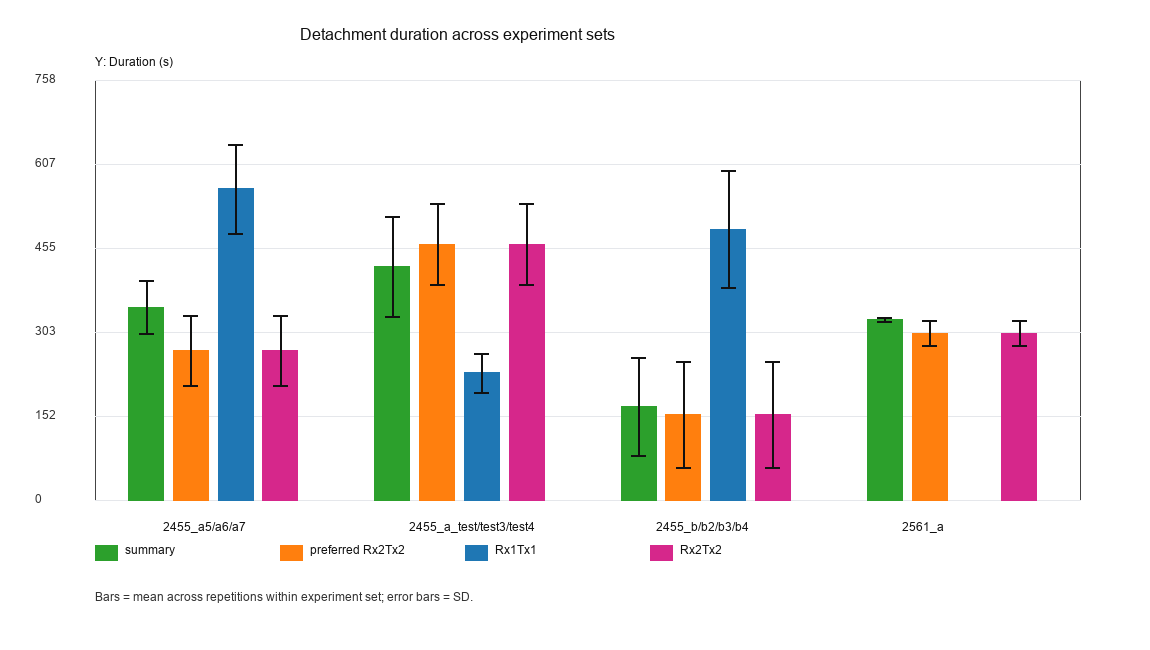
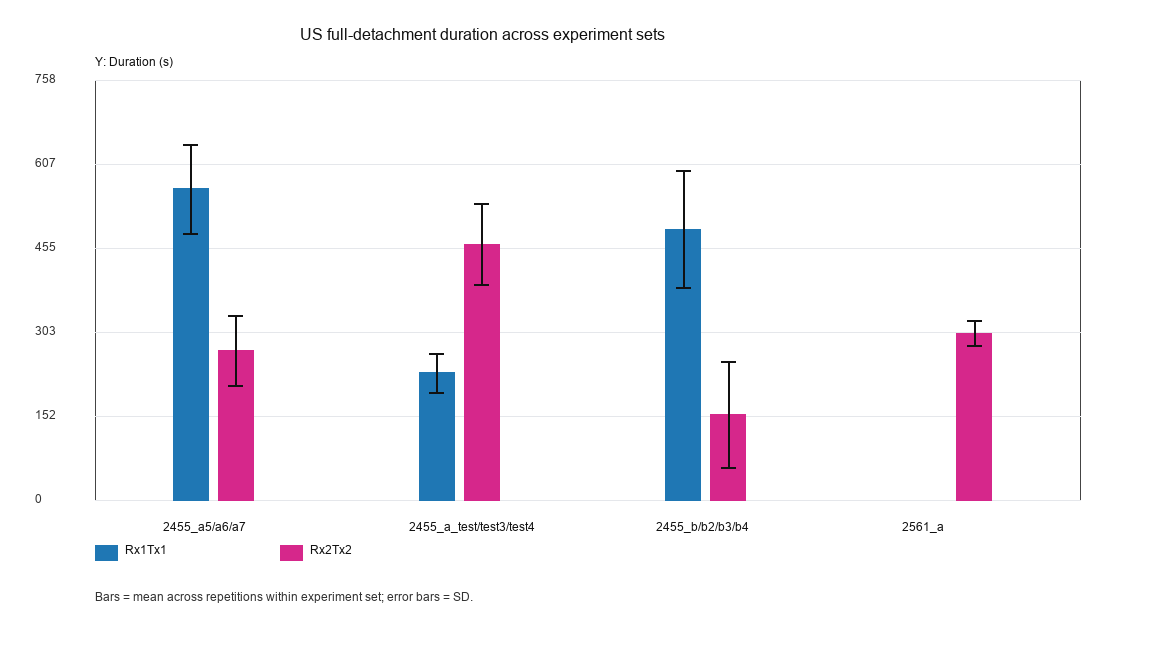
Clarify lab detachment repeatability outputs

diff --git a/analyze_lab_trials.py b/analyze_lab_trials.py
@@ -1019,8 +1019,6 @@ def make_zone_summary_link_sheet(tables: dict[str, pd.DataFrame]) -> pd.DataFram
         "Cryst. Onset (rel.)",
         "Cryst. Efficiency",
         "Detachment Onset (rel.)",
-        "Detachment Completion (rel.)",
-        "Detachment Duration",
         "Cryst. Length",
     ]
     outcomes = [c for c in outcomes if c in landmarks.columns]
@@ -1149,8 +1147,6 @@ def make_zone_link_highlights(zone_links: pd.DataFrame) -> pd.DataFrame:
         "Cryst. Onset (rel.)",
         "Cryst. Efficiency",
         "Detachment Onset (rel.)",
-        "Detachment Completion (rel.)",
-        "Detachment Duration",
         "Cryst. Length",
     ]
     work = zone_links[zone_links["summary_outcome"].isin(preferred_outcomes)].copy()
@@ -1286,8 +1282,6 @@ SUMMARY_PARAMETERS = [
     "Cryst. Onset (rel.)",
     "Cryst. Efficiency",
     "Detachment Onset (rel.)",
-    "Detachment Completion (rel.)",
-    "Detachment Duration",
     "Cryst. Length",
 ]
 
@@ -1431,8 +1425,6 @@ def targeted_temp_outcome_links(tables: dict[str, pd.DataFrame], repeatability: 
         "Cryst. Efficiency": ["zone_2_cooling_to_crystallization_start"],
         "Cryst. Length": ["zone_2_cooling_to_crystallization_start", "zone_3_crystallization_to_detachment_onset"],
         "Detachment Onset (rel.)": ["zone_3_crystallization_to_detachment_onset", "zone_4_detachment_onset_to_detachment_completion"],
-        "Detachment Completion (rel.)": ["zone_4_detachment_onset_to_detachment_completion"],
-        "Detachment Duration": ["zone_4_detachment_onset_to_detachment_completion"],
     }
     metrics = ["mean_temp_C", "range_temp_C", "abs_slope_temp_C_per_s", "product_spread_C"]
     rows = []
@@ -1956,22 +1948,19 @@ def detachment_summary_comparison(tables: dict[str, pd.DataFrame], detachment_of
         lm_pref = lm22.iloc[0] if not lm22.empty else lm11.iloc[0]
         meta = PROCESS_START_TIMES.get(rep_id, {})
         cooling_start = float(meta.get("cooling_start_s", np.nan))
-        summary_completion_rel = pd.to_numeric(pd.Series([lm_pref.get("Detachment Completion (rel.)")]), errors="coerce").iloc[0]
         summary_onset_rel = pd.to_numeric(pd.Series([lm_pref.get("Detachment Onset (rel.)")]), errors="coerce").iloc[0]
-        summary_duration = pd.to_numeric(pd.Series([lm_pref.get("Detachment Duration")]), errors="coerce").iloc[0]
-        summary_completion_abs = cooling_start + summary_completion_rel if pd.notna(cooling_start) and pd.notna(summary_completion_rel) else np.nan
         summary_onset_abs = cooling_start + summary_onset_rel if pd.notna(cooling_start) and pd.notna(summary_onset_rel) else np.nan
 
         rx2 = group[group["channel"].eq("Rx2Tx2")]
         rx1 = group[group["channel"].eq("Rx1Tx1")]
-        pref = rx2.iloc[0] if not rx2.empty else (rx1.iloc[0] if not rx1.empty else None)
-        if pref is None:
+        primary = rx2.iloc[0] if not rx2.empty else (rx1.iloc[0] if not rx1.empty else None)
+        if primary is None:
             continue
         rx1_row = rx1.iloc[0] if not rx1.empty else pd.Series(dtype=object)
         rx2_row = rx2.iloc[0] if not rx2.empty else pd.Series(dtype=object)
-        us_offset = pd.to_numeric(pd.Series([pref.get("detachment_offset_s")]), errors="coerce").iloc[0]
-        us_onset = pd.to_numeric(pd.Series([pref.get("detachment_onset_absolute_s")]), errors="coerce").iloc[0]
-        us_duration = us_offset - us_onset if pd.notna(us_offset) and pd.notna(us_onset) else np.nan
+        primary_offset = pd.to_numeric(pd.Series([primary.get("detachment_offset_s")]), errors="coerce").iloc[0]
+        primary_onset = pd.to_numeric(pd.Series([primary.get("detachment_onset_absolute_s")]), errors="coerce").iloc[0]
+        primary_duration = primary_offset - primary_onset if pd.notna(primary_offset) and pd.notna(primary_onset) else np.nan
         rx1_offset = pd.to_numeric(pd.Series([rx1_row.get("detachment_offset_s", np.nan)]), errors="coerce").iloc[0]
         rx2_offset = pd.to_numeric(pd.Series([rx2_row.get("detachment_offset_s", np.nan)]), errors="coerce").iloc[0]
         rx1_onset = pd.to_numeric(pd.Series([rx1_row.get("detachment_onset_absolute_s", np.nan)]), errors="coerce").iloc[0]
@@ -1982,24 +1971,26 @@ def detachment_summary_comparison(tables: dict[str, pd.DataFrame], detachment_of
             rx1_row.get("detachment_offset_status") == "full_detachment_for_channel"
             and rx2_row.get("detachment_offset_status") == "full_detachment_for_channel"
         )
+        full_sensors = [
+            ch
+            for ch, row in [("Rx1Tx1", rx1_row), ("Rx2Tx2", rx2_row)]
+            if row.get("detachment_offset_status") == "full_detachment_for_channel"
+        ]
         rows.append(
             {
                 "dataset": lm_pref.get("dataset", ""),
                 "rep_id": rep_id,
-                "preferred_channel": pref["channel"],
-                "preferred_rule": "Rx2Tx2 preferred when present; Rx1Tx1 retained as comparison/fallback.",
+                "raw_sheet": "at" + rep_id,
+                "primary_channel": primary["channel"],
+                "primary_rule": "Rx2Tx2 is the primary comparison channel when present; Rx1Tx1 is retained as parallel-sensor validation.",
                 "summary_sensor_code_used": lm_pref.get("sensor_code", ""),
                 "summary_detachment_onset_abs_s": summary_onset_abs,
-                "summary_detachment_completion_abs_s": summary_completion_abs,
-                "summary_detachment_duration_s": summary_duration,
-                "us_detachment_onset_abs_s": us_onset,
-                "us_detachment_offset_s": us_offset,
-                "us_detachment_duration_s": us_duration,
-                "us_offset_status": pref.get("detachment_offset_status", ""),
-                "us_change_points_until_offset_or_last": pref.get("change_points_until_detachment_or_last", np.nan),
-                "us_level_at_decision": pref.get("us_level_at_decision", np.nan),
-                "summary_minus_us_offset_s": summary_completion_abs - us_offset if pd.notna(summary_completion_abs) and pd.notna(us_offset) else np.nan,
-                "summary_minus_us_duration_s": summary_duration - us_duration if pd.notna(summary_duration) and pd.notna(us_duration) else np.nan,
+                "primary_detachment_onset_abs_s": primary_onset,
+                "primary_us_offset_s": primary_offset,
+                "primary_us_detachment_duration_s": primary_duration,
+                "primary_us_offset_status": primary.get("detachment_offset_status", ""),
+                "primary_us_change_points_until_offset_or_last": primary.get("change_points_until_detachment_or_last", np.nan),
+                "primary_us_level_at_decision": primary.get("us_level_at_decision", np.nan),
                 "rx1_status": rx1_row.get("detachment_offset_status", ""),
                 "rx1_offset_s": rx1_offset,
                 "rx1_detachment_duration_s": rx1_duration,
@@ -2010,10 +2001,11 @@ def detachment_summary_comparison(tables: dict[str, pd.DataFrame], detachment_of
                 "rx2_change_points_until_offset_or_last": rx2_row.get("change_points_until_detachment_or_last", np.nan),
                 "rx2_minus_rx1_offset_s": rx2_offset - rx1_offset if pd.notna(rx1_offset) and pd.notna(rx2_offset) else np.nan,
                 "rx2_minus_rx1_duration_s": rx2_duration - rx1_duration if pd.notna(rx1_duration) and pd.notna(rx2_duration) else np.nan,
+                "complete_detachment_sensor_count": len(full_sensors),
+                "complete_detachment_sensors": ", ".join(full_sensors),
                 "both_channels_full_offset": full_both,
                 "interpretation": (
-                    f"{rep_id}: preferred {pref['channel']} is {pref.get('detachment_offset_status', '')}. "
-                    f"Summary completion minus US offset = {fmt_num(summary_completion_abs - us_offset if pd.notna(summary_completion_abs) and pd.notna(us_offset) else np.nan, 1)} s; "
+                    f"{rep_id}: {len(full_sensors)} sensor(s) reached full US detachment ({', '.join(full_sensors) if full_sensors else 'none'}). "
                     f"Rx2 minus Rx1 offset = {fmt_num(rx2_offset - rx1_offset if pd.notna(rx1_offset) and pd.notna(rx2_offset) else np.nan, 1)} s."
                 ),
             }
@@ -2030,20 +2022,18 @@ def detachment_behavior_statistics(tables: dict[str, pd.DataFrame], comparison: 
     setup_cols = [c for c in MAIN_FACTORS if c in tables["Parsed Landmarks"].columns]
     setup = tables["Parsed Landmarks"][["rep_id", *setup_cols]].drop_duplicates("rep_id")
     work = comparison.merge(setup, on="rep_id", how="left")
-    work["preferred_full_offset_binary"] = work["us_offset_status"].eq("full_detachment_for_channel").astype(float)
+    work["primary_rx2_full_offset_binary"] = work["primary_us_offset_status"].eq("full_detachment_for_channel").astype(float)
     work["both_channels_full_offset_binary"] = work["both_channels_full_offset"].astype(float)
     metric_specs = [
-        ("summary_detachment_duration_s", "summary detachment duration"),
-        ("us_detachment_duration_s", "US preferred-channel detachment duration"),
-        ("us_change_points_until_offset_or_last", "US preferred-channel change-point count"),
+        ("primary_us_detachment_duration_s", "primary Rx2Tx2 detachment duration"),
+        ("primary_us_change_points_until_offset_or_last", "primary Rx2Tx2 change-point count"),
         ("rx1_detachment_duration_s", "Rx1Tx1 detachment duration"),
         ("rx1_change_points_until_offset_or_last", "Rx1Tx1 change-point count"),
         ("rx2_detachment_duration_s", "Rx2Tx2 detachment duration"),
         ("rx2_change_points_until_offset_or_last", "Rx2Tx2 change-point count"),
-        ("summary_minus_us_offset_s", "summary minus US offset time"),
-        ("summary_minus_us_duration_s", "summary minus US duration"),
         ("rx2_minus_rx1_offset_s", "Rx2Tx2 minus Rx1Tx1 offset time"),
-        ("preferred_full_offset_binary", "preferred channel full-offset probability"),
+        ("complete_detachment_sensor_count", "number of sensors with full detachment"),
+        ("primary_rx2_full_offset_binary", "primary Rx2Tx2 full-offset probability"),
         ("both_channels_full_offset_binary", "both channels full-offset probability"),
     ]
     rows = []
@@ -2074,10 +2064,6 @@ def detachment_behavior_statistics(tables: dict[str, pd.DataFrame], comparison: 
                 }
             )
     for x_col, y_col, label in [
-        ("summary_detachment_duration_s", "us_detachment_duration_s", "summary duration vs US preferred duration"),
-        ("summary_detachment_completion_abs_s", "us_detachment_offset_s", "summary completion vs US preferred offset"),
-        ("summary_detachment_duration_s", "rx2_detachment_duration_s", "summary duration vs Rx2Tx2 duration"),
-        ("summary_detachment_duration_s", "rx1_detachment_duration_s", "summary duration vs Rx1Tx1 duration"),
         ("rx1_detachment_duration_s", "rx2_detachment_duration_s", "Rx1Tx1 duration vs Rx2Tx2 duration"),
         ("rx1_change_points_until_offset_or_last", "rx2_change_points_until_offset_or_last", "Rx1Tx1 CP count vs Rx2Tx2 CP count"),
     ]:
@@ -2086,7 +2072,7 @@ def detachment_behavior_statistics(tables: dict[str, pd.DataFrame], comparison: 
         r, n = pearson_r(work[x_col], work[y_col])
         rows.append(
             {
-                "assessment": "summary/US agreement or channel agreement",
+                "assessment": "channel agreement",
                 "metric": label,
                 "metric_column": f"{x_col} vs {y_col}",
                 "independent_variable": "correlation",
@@ -2121,14 +2107,12 @@ def detachment_repeatability_cv(comparison: pd.DataFrame) -> pd.DataFrame:
     if comparison.empty:
         return pd.DataFrame()
     metric_specs = [
-        ("summary_detachment_duration_s", "summary duration", "summary"),
-        ("us_detachment_duration_s", "preferred US duration", "preferred_us"),
-        ("us_change_points_until_offset_or_last", "preferred US change-point count", "preferred_us"),
         ("rx1_detachment_duration_s", "Rx1Tx1 duration", "Rx1Tx1"),
         ("rx1_change_points_until_offset_or_last", "Rx1Tx1 change-point count", "Rx1Tx1"),
         ("rx2_detachment_duration_s", "Rx2Tx2 duration", "Rx2Tx2"),
         ("rx2_change_points_until_offset_or_last", "Rx2Tx2 change-point count", "Rx2Tx2"),
         ("rx2_minus_rx1_offset_s", "Rx2Tx2 minus Rx1Tx1 offset", "channel_difference"),
+        ("complete_detachment_sensor_count", "number of sensors with full detachment", "sensor_count"),
     ]
     rows = []
     for dataset, group in comparison.groupby("dataset", dropna=False):
@@ -2162,6 +2146,64 @@ def detachment_repeatability_cv(comparison: pd.DataFrame) -> pd.DataFrame:
     if out.empty:
         return out
     return out.sort_values(["dataset", "metric", "channel_or_scope"])
+
+
+def detachment_figure_data_used(comparison: pd.DataFrame) -> pd.DataFrame:
+    if comparison.empty:
+        return pd.DataFrame()
+    rows = []
+    for _, row in comparison.iterrows():
+        for channel, status_col, duration_col, offset_col, cp_col in [
+            ("Rx1Tx1", "rx1_status", "rx1_detachment_duration_s", "rx1_offset_s", "rx1_change_points_until_offset_or_last"),
+            ("Rx2Tx2", "rx2_status", "rx2_detachment_duration_s", "rx2_offset_s", "rx2_change_points_until_offset_or_last"),
+        ]:
+            full = row.get(status_col) == "full_detachment_for_channel"
+            rows.append(
+                {
+                    "dataset": row.get("dataset", ""),
+                    "rep_id": row.get("rep_id", ""),
+                    "raw_sheet": row.get("raw_sheet", ""),
+                    "channel": channel,
+                    "detachment_status": row.get(status_col, ""),
+                    "used_in_duration_and_offset_figures": bool(full and pd.notna(row.get(duration_col)) and pd.notna(row.get(offset_col))),
+                    "used_in_change_point_count_figure": pd.notna(row.get(cp_col)),
+                    "detachment_duration_s": row.get(duration_col, np.nan),
+                    "detachment_offset_s": row.get(offset_col, np.nan),
+                    "change_points_until_offset_or_last": row.get(cp_col, np.nan),
+                    "complete_detachment_sensor_count_for_rep": row.get("complete_detachment_sensor_count", np.nan),
+                    "complete_detachment_sensors_for_rep": row.get("complete_detachment_sensors", ""),
+                }
+            )
+    return pd.DataFrame(rows).sort_values(["dataset", "rep_id", "channel"])
+
+
+def raw_sheet_inventory(tables: dict[str, pd.DataFrame], comparison: pd.DataFrame) -> pd.DataFrame:
+    landmarks = tables["Parsed Landmarks"].copy()
+    rows = []
+    for sheet in available_raw_sheets():
+        rep_id = norm_id(sheet)
+        lm = landmarks[landmarks["rep_id"].eq(rep_id)]
+        comp = comparison[comparison["rep_id"].eq(rep_id)] if not comparison.empty else pd.DataFrame()
+        rows.append(
+            {
+                "raw_sheet": sheet,
+                "rep_id": rep_id,
+                "dataset_label_from_summary": "" if lm.empty else lm.iloc[0].get("dataset", ""),
+                "raw_csv_source": str(CSV_RAW_SOURCES.get(sheet, "")),
+                "has_raw_sheet": True,
+                "has_summary_landmarks": not lm.empty,
+                "summary_sensor_codes_available": ", ".join(sorted(lm["sensor_code"].astype(str).unique())) if not lm.empty else "",
+                "included_in_detachment_analysis": not comp.empty,
+                "complete_detachment_sensor_count": comp.iloc[0].get("complete_detachment_sensor_count", np.nan) if not comp.empty else np.nan,
+                "complete_detachment_sensors": comp.iloc[0].get("complete_detachment_sensors", "") if not comp.empty else "",
+                "note": (
+                    "Raw file exists, but no detachment summary landmark was parsed for this repetition."
+                    if lm.empty
+                    else "Dataset label can group multiple raw repetitions; use rep_id/raw_sheet for individual files."
+                ),
+            }
+        )
+    return pd.DataFrame(rows).sort_values(["dataset_label_from_summary", "rep_id"])
 
 
 def detachment_group_stats(comparison: pd.DataFrame, value_col: str, group_col: str = "dataset") -> pd.DataFrame:
@@ -2203,10 +2245,9 @@ def make_grouped_bar_figure(
     draw = ImageDraw.Draw(img)
     font, small = get_fonts()
     colors = {
-        "summary": "#2ca02c",
-        "preferred Rx2Tx2": "#ff7f0e",
         "Rx1Tx1": "#1f77b4",
         "Rx2Tx2": "#d6278b",
+        "Full sensor count": "#2ca02c",
     }
     plot = (95, 80, 1080, 500)
     draw.text((300, 25), title, fill="#111111", font=font)
@@ -2262,16 +2303,13 @@ def make_detachment_comparison_figures(comparison: pd.DataFrame) -> list[Path]:
         return []
     paths: list[Path] = []
     duration_series = {
-        "summary": detachment_group_stats(comparison, "summary_detachment_duration_s"),
-        "preferred Rx2Tx2": detachment_group_stats(comparison, "us_detachment_duration_s"),
         "Rx1Tx1": detachment_group_stats(comparison, "rx1_detachment_duration_s"),
         "Rx2Tx2": detachment_group_stats(comparison, "rx2_detachment_duration_s"),
     }
-    p = make_grouped_bar_figure(duration_series, "Detachment duration across experiment sets", "Duration (s)", "detachment_duration_grouped_bars.png")
+    p = make_grouped_bar_figure(duration_series, "US full-detachment duration across experiment sets", "Duration (s)", "detachment_duration_grouped_bars.png")
     if p is not None:
         paths.append(p)
     cp_series = {
-        "preferred Rx2Tx2": detachment_group_stats(comparison, "us_change_points_until_offset_or_last"),
         "Rx1Tx1": detachment_group_stats(comparison, "rx1_change_points_until_offset_or_last"),
         "Rx2Tx2": detachment_group_stats(comparison, "rx2_change_points_until_offset_or_last"),
     }
@@ -2283,6 +2321,12 @@ def make_detachment_comparison_figures(comparison: pd.DataFrame) -> list[Path]:
         "Rx2Tx2": detachment_group_stats(comparison, "rx2_offset_s"),
     }
     p = make_grouped_bar_figure(offset_series, "US detachment offset times across experiment sets", "Absolute time (s)", "detachment_offsets_grouped_bars.png")
+    if p is not None:
+        paths.append(p)
+    count_series = {
+        "Full sensor count": detachment_group_stats(comparison, "complete_detachment_sensor_count"),
+    }
+    p = make_grouped_bar_figure(count_series, "Number of sensors with full detachment across experiment sets", "Sensors with full detachment", "detachment_full_sensor_counts_grouped_bars.png")
     if p is not None:
         paths.append(p)
     return paths
@@ -2511,30 +2555,42 @@ def concise_readme() -> pd.DataFrame:
             },
             {
                 "part": "5",
-                "sheet": "5 Detachment Summary vs US",
-                "what_it_answers": "Do manually summarized detachment completion/duration and US-derived detachment offset agree?",
-                "how_to_read": "Rx2Tx2 is used as the preferred channel when present. Rx1Tx1 and Rx2Tx2 are both kept in separate columns so channel disagreement is visible.",
+                "sheet": "5 Detachment US Overview",
+                "what_it_answers": "Which repetitions reached full US detachment, in which sensor, and at what US-derived offset/duration?",
+                "how_to_read": "Rx2Tx2 is the primary comparison channel when present. Rx1Tx1 is retained as parallel-sensor validation. Old summary detachment completion/duration values are intentionally excluded.",
             },
             {
                 "part": "6",
                 "sheet": "6 Detachment Statistics",
                 "what_it_answers": "Which experimental factors are associated with detachment duration, full-offset probability, and change-point count?",
-                "how_to_read": "Eta-squared screens setup effects; correlation rows compare summary-derived and US-derived detachment behavior. Treat this as exploratory because n is small.",
+                "how_to_read": "Eta-squared screens setup effects; channel-correlation rows compare Rx1Tx1 vs Rx2Tx2 behavior. Treat this as exploratory because n is small.",
             },
             {
                 "part": "7",
+                "sheet": "Raw Sheet Inventory",
+                "what_it_answers": "Which raw files are present, and which ones have usable summary landmarks for detachment analysis?",
+                "how_to_read": "This separates raw_sheet/rep_id from the broader dataset label. For example, at2561_a1-at2561_a4 can exist as raw files even if only some have parsed detachment landmarks.",
+            },
+            {
+                "part": "8",
+                "sheet": "Detachment Figure Data",
+                "what_it_answers": "Which exact repetitions were used in the detachment bar plots?",
+                "how_to_read": "Duration and offset plots use only full-detachment rows for that sensor. Change-point count plots include available diagnostic counts, including partial rows.",
+            },
+            {
+                "part": "9",
                 "sheet": "US Rupture Decisions",
                 "what_it_answers": "For each repetition, sensor code, and primary US channel, was full detachment reached and at what offset time?",
                 "how_to_read": "A time is reported only if a positive change point reaches the pre-deposition minus 15% threshold. Otherwise the status is partial.",
             },
             {
-                "part": "8",
+                "part": "10",
                 "sheet": "US Change Points",
                 "what_it_answers": "Which positive/upward US change points were detected and did they pass the threshold?",
                 "how_to_read": "This is the audit trail behind the detachment offset decision.",
             },
             {
-                "part": "9",
+                "part": "11",
                 "sheet": "Zone and US Figures / Rupture Decision Figures",
                 "what_it_answers": "Visual checks for zones, onset, full-detachment offsets, rupture points, and threshold criteria.",
                 "how_to_read": "Red offset lines are only drawn where full detachment was detected.",
@@ -2565,8 +2621,10 @@ def build_revised_tables(tables: dict[str, pd.DataFrame]) -> dict[str, pd.DataFr
         "2 Repeatability CV": repeatability,
         "3 Temp Explains Outcomes": targeted_temp_outcome_links(tables, repeatability),
         "4 Detachment CV": detachment_repeatability_cv(detachment_comparison),
-        "5 Detachment Summary vs US": detachment_comparison,
+        "5 Detachment US Overview": detachment_comparison,
         "6 Detachment Statistics": detachment_behavior_statistics(tables, detachment_comparison),
+        "Raw Sheet Inventory": raw_sheet_inventory(tables, detachment_comparison),
+        "Detachment Figure Data": detachment_figure_data_used(detachment_comparison),
         "US Rupture Decisions": detachment_offset,
         "US Change Points": detachment_change_point_summary(detachment_offset),
     }
@@ -2630,7 +2688,7 @@ def build_report() -> Path:
     _, detailed_change_points_for_figures = lab_detachment_analysis(tables)
     zone_figures = make_lab_zone_us_figures(zones_for_figures, rupture_decisions)
     rupture_figures = make_lab_rupture_figures(rupture_decisions, detailed_change_points_for_figures)
-    detachment_figures = make_detachment_comparison_figures(report_tables["5 Detachment Summary vs US"])
+    detachment_figures = make_detachment_comparison_figures(report_tables["5 Detachment US Overview"])
 
     wb = Workbook()
     wb.remove(wb.active)